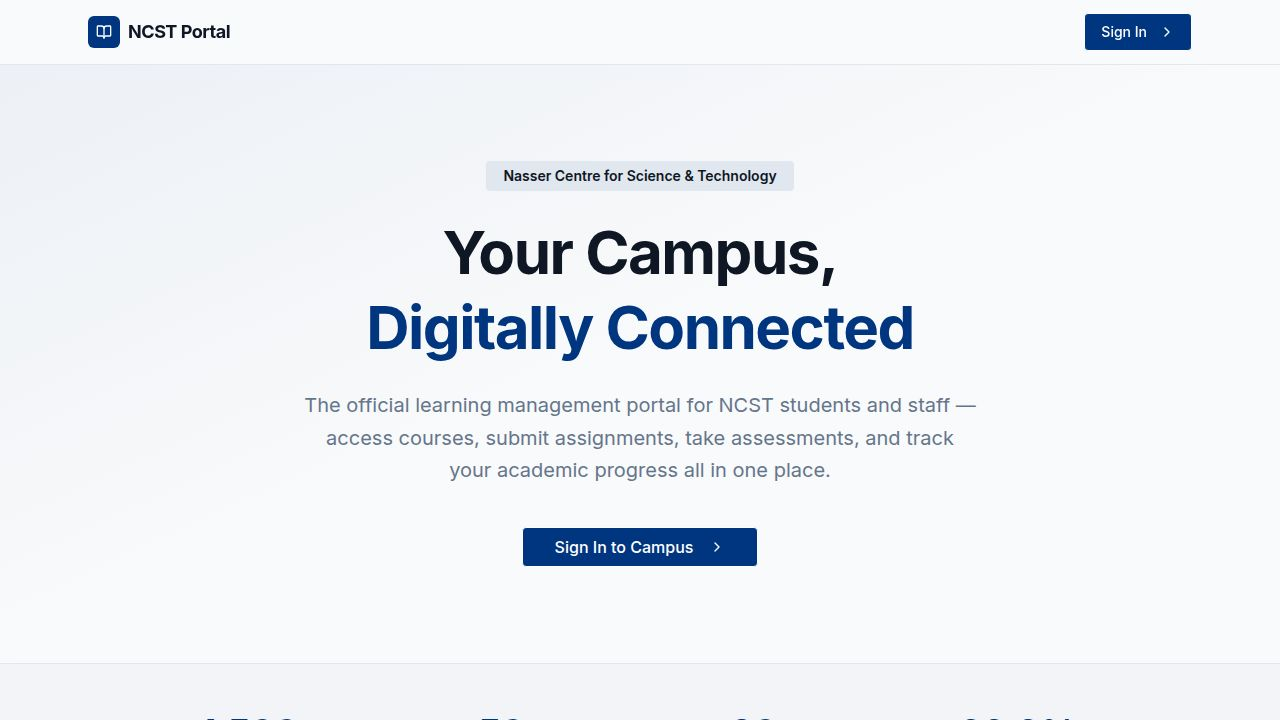
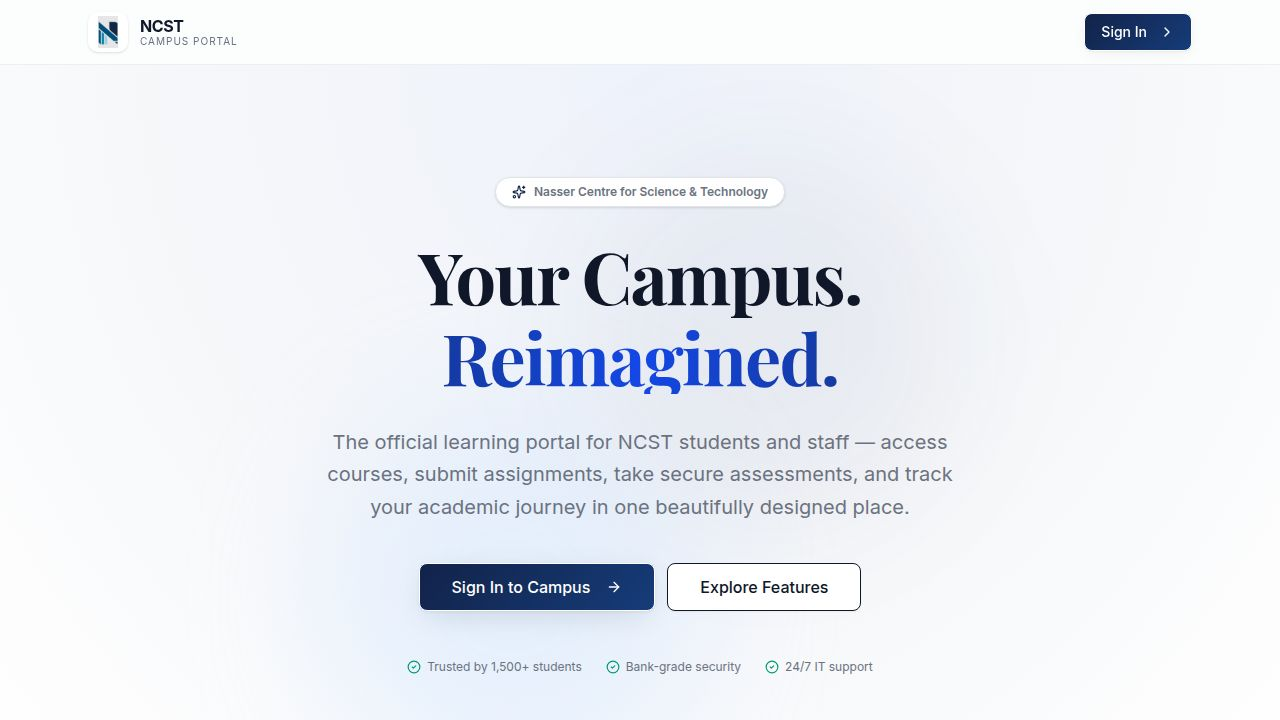
Make user sessions persist across server restarts
Integrates `connect-pg-simple` to store user sessions in PostgreSQL, ensuring session persistence across server restarts and deploys by modifying `api-server/package.json` and `api-server/src/app.ts`.

Replit-Commit-Author: Agent
Replit-Commit-Session-Id: 673084cb-1b5f-4c26-ab4c-3d96f9de2437
Replit-Commit-Checkpoint-Type: full_checkpoint
Replit-Commit-Event-Id: 60ff1c80-1eb1-4228-a29a-6ed69ec767c3
Replit-Commit-Screenshot-Url: https://storage.googleapis.com/screenshot-production-us-central1/c164cc0d-0a78-4013-99cf-7adda894ad47/673084cb-1b5f-4c26-ab4c-3d96f9de2437/GNHN7q0
Replit-Helium-Checkpoint-Created: true

diff --git a/artifacts/api-server/src/app.ts b/artifacts/api-server/src/app.ts
@@ -2,8 +2,12 @@ import express, { type Express } from "express";
 import cors from "cors";
 import pinoHttp from "pino-http";
 import session from "express-session";
+import connectPgSimple from "connect-pg-simple";
+import { pool } from "@workspace/db";
 import router from "./routes";
 import { logger } from "./lib/logger";
+
+const PgSession = connectPgSimple(session);
 
 const app: Express = express();
 
@@ -35,6 +39,10 @@ app.use(express.json({ limit: "50mb" }));
 app.use(express.urlencoded({ extended: true }));
 
 app.use(session({
+  store: new PgSession({
+    pool: pool as any,
+    tableName: "user_sessions",
+  }),
   secret: process.env.SESSION_SECRET ?? "ncst-lms-secret-dev",
   resave: false,
   saveUninitialized: false,